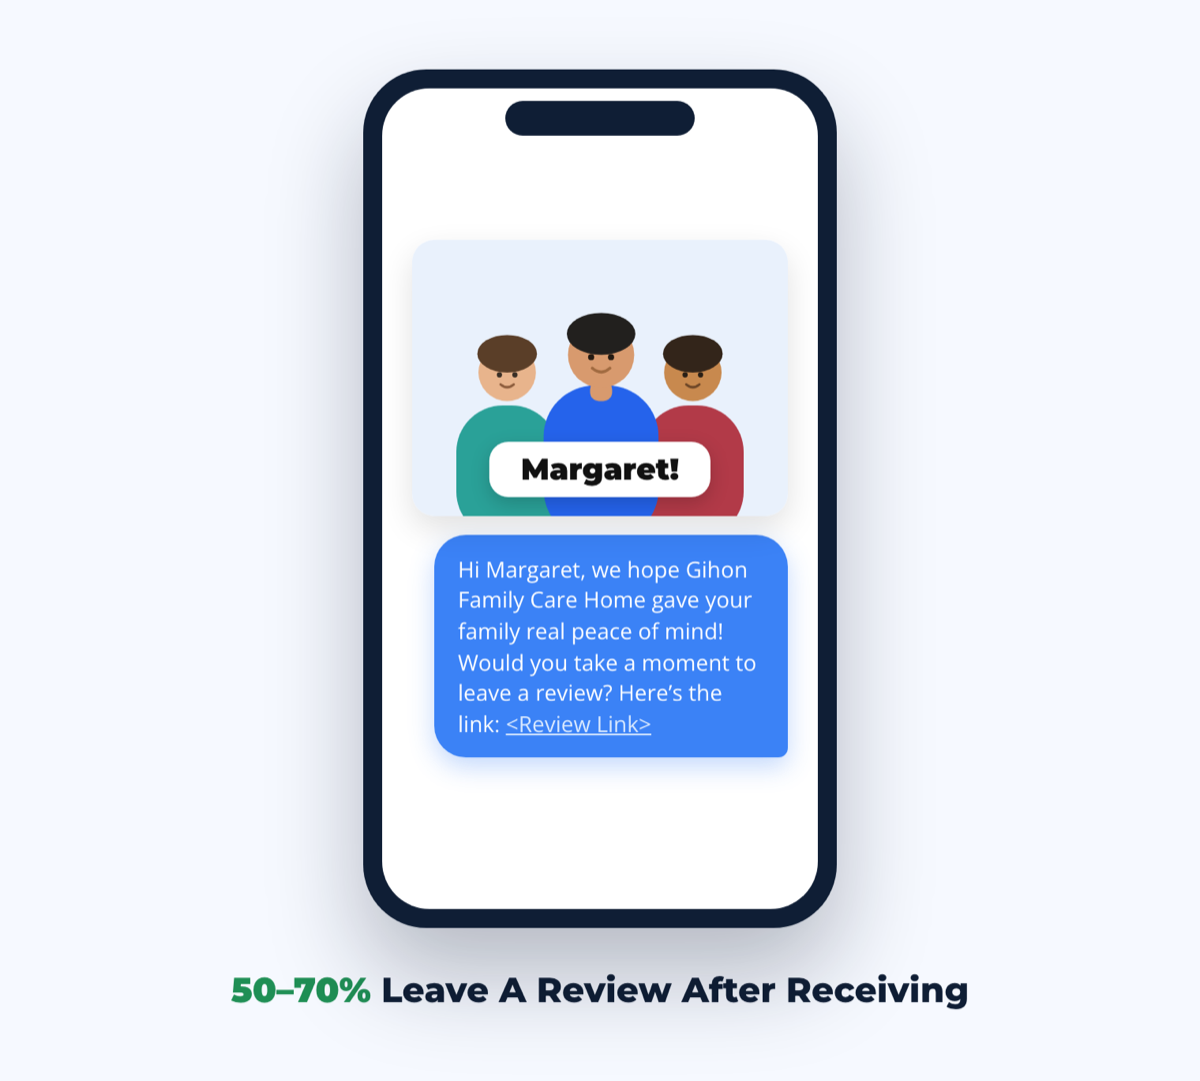
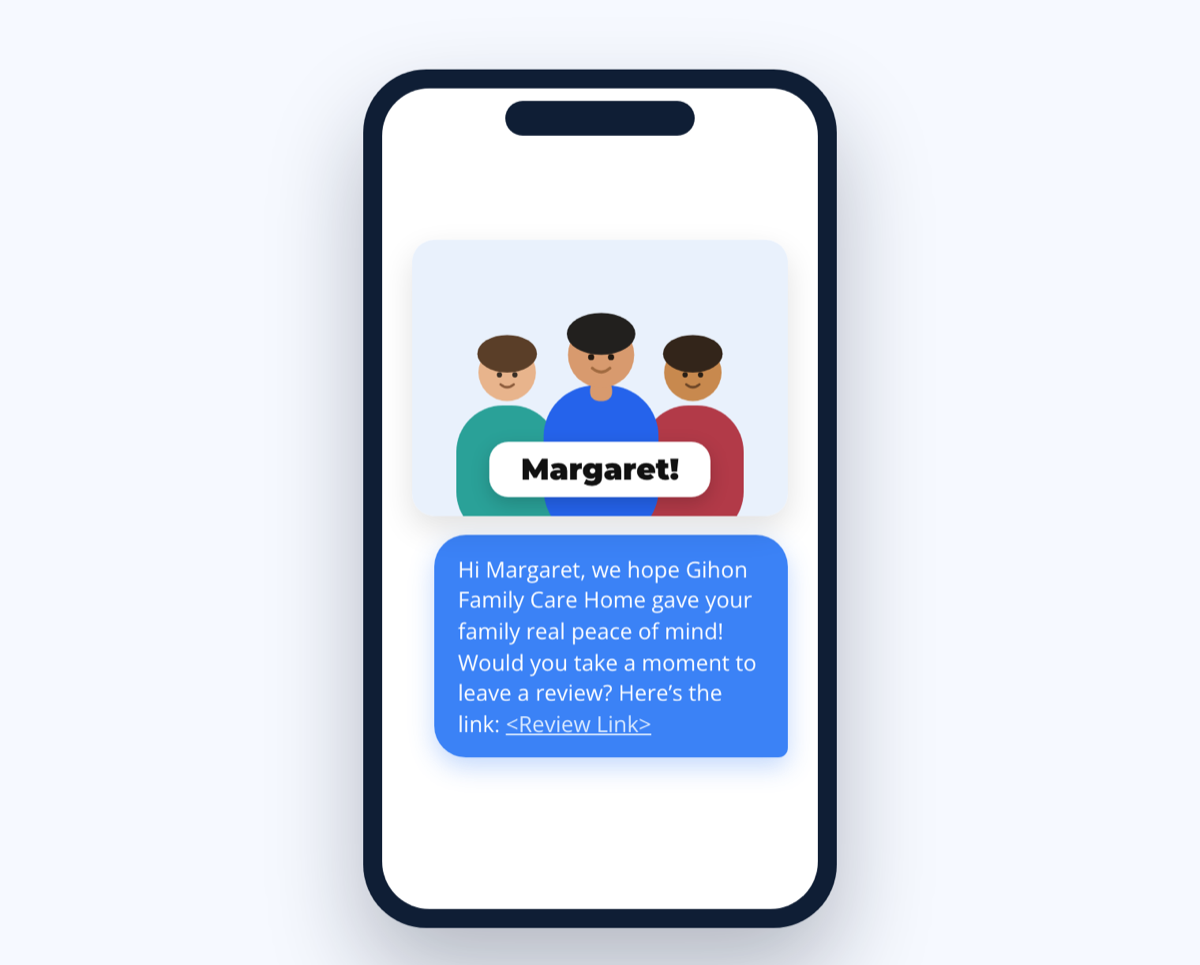
proposal: mobile/resize fixes across 9 review points
- Sticky nav restored on mobile: body/html overflow-x hidden -> clip (was
  breaking position:sticky), hamburger now always visible on phones.
- Hero + receptionist + offer laptop iframes: JS scaler fits the full
  desktop site to the frame at any width (no more right-half clipping).
- "The Research": split the Reddit + Facebook proof into two readable
  images (stack on phones); removed the blue card box.
- "The Results": replaced the baked-in comparison PNG with live
  side-by-side cards (labels + search volumes only); removed the box.
- Personalized-reviews image cropped to drop the redundant "50-70% leave a
  review" caption; blue box removed. More-reviews video: force play via
  IntersectionObserver + preload=auto; blue box removed.
- Receptionist chat journey: stop the zoom-to-30% squish, stack the three
  beats full-size on mobile with down-arrows.
- Investment badges (One Payment / You Own It / Money-Back) now one
  horizontal row on mobile. Offer diagram fits and no longer clips.

Changed region(s): [[0.185, 0.2798, 0.8017, 1.0], [0.3083, 0.0622, 0.7092, 0.1554]]

diff --git a/index.html b/index.html
@@ -1616,7 +1616,7 @@ details.proposal-collapsible[open] > .ps-summary{
 </style>
 
 <style id="sbp-mobile">
-html,body{max-width:100%;overflow-x:hidden}
+html,body{max-width:100%;overflow-x:clip}
 img,video,iframe,svg{max-width:100%}
 @media(max-width:768px){
   .topbar-inner{padding:0 16px;gap:10px}
@@ -1699,7 +1699,7 @@ img,video,iframe,svg{max-width:100%}
 *{box-sizing:border-box;margin:0;padding:0}
 html{-webkit-text-size-adjust:100%;scroll-behavior:smooth}
 body{background:var(--white);color:var(--ink);font-family:var(--sans);font-size:1.0625rem;
-  line-height:1.6;-webkit-font-smoothing:antialiased;overflow-x:hidden}
+  line-height:1.6;-webkit-font-smoothing:antialiased;overflow-x:clip}
 img,video{max-width:100%;display:block}
 h1,h2,h3{font-family:var(--serif);font-weight:800;letter-spacing:-.02em;line-height:1.1;text-wrap:balance}
 h1{font-size:clamp(1.95rem,6vw,3.3rem)}
@@ -2653,7 +2653,7 @@ html{scroll-behavior:smooth}
     <h2 class="pgrid-head">The Goldmine of Qualified Prospects</h2>
     <p class="pgrid-sub">Where your next clients are actually looking &mdash; and why most home care sites never show up there.</p>
     <div class="pgrid pgrid-3">
-        <figure class="pcell"><h3 class="pcell-title">For the last 2 years Google has been transitioning out the ability to scroll beyond the first page</h3><div class="pcell-media"><video class="pcell-vid" autoplay muted loop playsinline preload="metadata" poster="traffic-google-scroll-poster.jpg" aria-label="Google removing the ability to scroll past page one"><source src="traffic-google-scroll.mp4" type="video/mp4"></video></div></figure>
+        <figure class="pcell"><h3 class="pcell-title">For the last 2 years Google has been transitioning out the ability to scroll beyond the first page</h3><div class="pcell-media"><video class="pcell-vid" autoplay muted loop playsinline preload="auto" poster="traffic-google-scroll-poster.jpg" aria-label="Google removing the ability to scroll past page one"><source src="traffic-google-scroll.mp4" type="video/mp4"></video></div></figure>
         <figure class="pcell"><h3 class="pcell-title">Their new &ldquo;Have AI get prices&rdquo; button rewards websites that were built for it</h3><div class="pcell-media"><img src="getprices.webp" alt="Google&rsquo;s Have AI get prices button" loading="lazy" decoding="async"></div></figure>
         <figure class="pcell"><h3 class="pcell-title">Tools like ChatGPT are recommending local businesses, but only 1.2% of sites are set up to show up</h3><div class="pcell-media"><img src="article-highlighted.png" alt="Only 1.2% of local businesses are recommended by AI search" loading="lazy" decoding="async"></div></figure>
     </div>
@@ -2665,8 +2665,8 @@ html{scroll-behavior:smooth}
     <h2 class="pgrid-head">Your Customers Don&rsquo;t Search Like Care Providers</h2>
     <p class="pgrid-sub">We read what families actually type before we write a word &mdash; then build your site in their words, not the trade&rsquo;s.</p>
     <div class="pgrid pgrid-2">
-        <figure class="pcell"><h3 class="pcell-title">The Research</h3><div class="pcell-media"><img src="home-care-proof-layered.png" alt="Real customer language pulled from Google, Reddit and Facebook" loading="lazy" decoding="async"></div></figure>
-        <figure class="pcell"><h3 class="pcell-title">The Results</h3><div class="pcell-media"><img src="trust-results.png" alt="The results of writing the site in customer language" loading="lazy" decoding="async"></div></figure>
+        <figure class="pcell pcell-research"><h3 class="pcell-title">The Research</h3><div class="pcell-media"><div class="proof-split"><img src="proof-reddit.png" alt="A daughter on Reddit asking how to find in-home care for her mom without a fight" loading="lazy" decoding="async"><img src="proof-facebook.png" alt="A son on Facebook asking for a reliable in-home caregiver for his dad" loading="lazy" decoding="async"></div></div></figure>
+        <figure class="pcell pcell-results"><h3 class="pcell-title">The Results</h3><div class="pcell-media"><div class="cmp-cols"><div class="cmp-col bad"><div class="cmp-lab"><span class="b">&times;</span> Written like a care provider</div><div class="cmp-brow"><div class="cmp-bar"><i></i><i></i><i></i><span class="u">gihonfamilycare.com</span></div><div class="cmp-hero"><div class="cmp-h">In-Home Non-Medical ADL Assistance &amp; Care Coordination</div><ul class="cmp-bl"><li>Activities of daily living (ADL) support</li><li>Care-plan management &amp; coordination</li><li>HIPAA-compliant caregiver matching</li></ul><span class="cmp-cta">Request Consultation</span></div></div><div class="cmp-dem"><span class="ic">&times;</span><div><div class="n">~40</div><div class="l">searches/mo for &ldquo;non-medical ADL assistance&rdquo;</div></div></div></div><div class="cmp-col mid"><div class="cmp-vs">VS</div></div><div class="cmp-col good"><div class="cmp-lab"><span class="b">&#10003;</span> Written for your customers</div><div class="cmp-brow"><div class="cmp-bar"><i></i><i></i><i></i><span class="u">gihonfamilycare.com</span></div><div class="cmp-hero"><div class="cmp-h">Worried About Mom Living Alone? Trusted Caregivers, a Few Hours a Day.</div><ul class="cmp-bl"><li>Help with bathing, meals &amp; medication reminders</li><li>Background-checked caregivers you can trust</li><li>Start with a free in-home visit</li></ul><span class="cmp-cta">Get a Free Consultation</span></div></div><div class="cmp-dem"><span class="ic">&#10003;</span><div><div class="n">~2,900</div><div class="l">searches/mo for &ldquo;home care for elderly parent&rdquo;</div></div></div></div></div></div></figure>
     </div>
   </div>
 </section>
@@ -2690,7 +2690,7 @@ html{scroll-behavior:smooth}
     <div class="pgrid pgrid-3">
         <figure class="pcell"><h3 class="pcell-title">11 out of 100 businesses consistently get reviews</h3><div class="pcell-media"><img src="repeat-11of100.png" alt="11 out of 100 businesses consistently get reviews" loading="lazy" decoding="async"></div></figure>
         <figure class="pcell"><h3 class="pcell-title">Personalized Reviews: 50&ndash;70% respond</h3><div class="pcell-media"><img src="repeat-personalized.png" alt="Personalized review requests get a 50 to 70 percent response rate" loading="lazy" decoding="async"></div></figure>
-        <figure class="pcell"><h3 class="pcell-title">More Reviews Means More Seniors</h3><div class="pcell-media"><video class="pcell-vid" autoplay muted loop playsinline preload="metadata" poster="repeat-more-reviews-poster.jpg" aria-label="More reviews means more seniors served"><source src="repeat-more-reviews.mp4" type="video/mp4"></video></div></figure>
+        <figure class="pcell"><h3 class="pcell-title">More Reviews Means More Seniors</h3><div class="pcell-media"><video class="pcell-vid" autoplay muted loop playsinline preload="auto" poster="repeat-more-reviews-poster.jpg" aria-label="More reviews means more seniors served"><source src="repeat-more-reviews.mp4" type="video/mp4"></video></div></figure>
     </div>
   </div>
 </section>
@@ -5027,6 +5027,106 @@ document.addEventListener("keydown",function(e){if(e.key==="Escape")close();});
 function ready(on){bar.classList.toggle("nav-ready",on);if(!on)close();}
 if(window.IntersectionObserver&&hero){new IntersectionObserver(function(en){ready(!en[0].isIntersecting);},{threshold:0}).observe(hero);}
 else{window.addEventListener("scroll",function(){ready(window.scrollY>(hero?hero.offsetHeight:600)-80);},{passive:true});}
+})();</script>
+<style id="sbp-resp-2026-07-24">
+/* =============================================================
+   Mobile / resize fixes — 2026-07-24 (Vince review)
+   ============================================================= */
+
+/* #4 — sticky nav + always-available hamburger on mobile
+   (overflow-x:clip on html,body — set in #sbp-mobile — restores position:sticky) */
+@media(max-width:768px){
+  .nav-burger{opacity:1!important;visibility:visible!important;transform:none!important;margin-left:auto;}
+}
+
+/* #2 / #3 / #5 / #6 — strip the light-blue card box off the proof cells */
+#search-language .pcell-media,
+#outreach-system .pcell-media{
+  background:none!important;border:0!important;box-shadow:none!important;
+  border-radius:0!important;overflow:visible!important;
+}
+
+/* #2 — Trust section: single column so the proof reads big; split reddit/fb */
+#search-language .pgrid-2{grid-template-columns:1fr;max-width:820px;margin-inline:auto;gap:34px;}
+.proof-split{display:flex;gap:16px;align-items:flex-start;}
+.proof-split img{flex:1 1 0;min-width:0;width:100%;height:auto;border-radius:12px;
+  box-shadow:0 14px 30px rgba(15,23,42,.14);border:1px solid rgba(15,23,42,.08);}
+@media(max-width:640px){.proof-split{flex-direction:column;gap:18px;}}
+
+/* #3 — live "Results" comparison sits flush in the bare cell */
+.pcell-results .cmp-cols{margin-top:2px;}
+.pcell-results .cmp-col{max-width:none;}
+
+/* #5 — personalized-review phone: keep it centered, sensible size */
+#outreach-system .pcell figure,#outreach-system .pcell img{margin-inline:auto;}
+#outreach-system .pcell img[src*="repeat-personalized"]{max-width:320px;display:block;margin:0 auto;}
+
+/* #6 — more-reviews video: bare, centered, capped */
+#outreach-system .pcell-vid{max-width:340px;display:block;margin:0 auto;border-radius:14px;}
+
+/* #7 — receptionist chat journey: stop the zoom-squish, stack full size on mobile */
+@media(max-width:900px){
+  #receptionist .ai-journey{zoom:1!important;flex-direction:column!important;flex-wrap:nowrap!important;
+    gap:6px!important;align-items:center!important;}
+  #receptionist .ai-journey-arrow{transform:rotate(90deg)!important;font-size:26px!important;margin:2px 0!important;}
+  #receptionist .ai-journey .ai-laptop{width:100%!important;max-width:min(420px,92vw)!important;}
+  #receptionist .ai-journey .ai-chatwin{width:100%!important;max-width:min(360px,92vw)!important;}
+  #receptionist .ai-journey .ai-phone{width:100%!important;max-width:min(300px,80vw)!important;}
+  #receptionist .ai-journey-beat{width:100%;align-items:center;}
+}
+
+/* #8 — investment badges: one horizontal row on mobile */
+@media(max-width:560px){
+  #offer .so-invest .so-trust{flex-wrap:nowrap!important;gap:7px;}
+  #offer .so-invest .so-chip{flex:1 1 0;min-width:0;flex-direction:column;text-align:center;
+    gap:6px;padding:11px 6px;font-size:11.5px;line-height:1.2;border-radius:12px;}
+  #offer .so-invest .so-chip .so-c{width:17px;height:17px;}
+  #offer .so-invest .so-chip .so-c svg{width:10px;height:10px;}
+}
+
+/* #9 — offer diagram: fit + center, no clipping on phones */
+@media(max-width:820px){
+  #offer .so-diagram{margin-top:30px;}
+  #offer .so-hub{gap:16px;width:100%;}
+  #offer .so-sys,#offer .so-site,#offer .so-sys.so-bottom,#offer .so-downcol{width:100%;max-width:420px;margin-inline:auto;}
+  #offer .so-downcol{align-items:center;}
+  #offer .so-conn.so-down{margin:14px 0;}
+  #offer .so-sys .so-t{padding-right:40px;}
+}
+</style>
+<script id="sbp-resp-js-2026-07-24">(function(){
+  /* #1 / #9 — scale each laptop iframe so the full desktop site fits its frame (no horizontal clipping) */
+  var LAPS=[
+    {sel:'.cover-laptop .laptop-viewport',slice:905},
+    {sel:'#receptionist .ai-laptop .laptop-viewport',slice:890},
+    {sel:'#offer .so-vp',slice:760}
+  ];
+  function scaleLaptops(){
+    LAPS.forEach(function(L){
+      document.querySelectorAll(L.sel).forEach(function(vp){
+        var f=vp.querySelector('.laptop-iframe'); if(!f) return;
+        var w=vp.clientWidth; if(!w) return;
+        var s=w/1440;
+        f.style.width='1440px'; f.style.transformOrigin='top left';
+        f.style.transform='scale('+s+')';
+        vp.style.height=Math.round(s*L.slice)+'px';
+      });
+    });
+  }
+  if(document.readyState!=='loading')scaleLaptops();
+  else document.addEventListener('DOMContentLoaded',scaleLaptops);
+  window.addEventListener('load',scaleLaptops);
+  var rt; window.addEventListener('resize',function(){clearTimeout(rt);rt=setTimeout(scaleLaptops,120);},{passive:true});
+
+  /* #6 — force muted looping proof videos to actually play once on screen (mobile autoplay guard) */
+  var vids=document.querySelectorAll('.pcell-vid');
+  function play(v){try{v.muted=true;var p=v.play();if(p&&p.catch)p.catch(function(){});}catch(e){}}
+  if(vids.length){
+    if(window.IntersectionObserver){
+      var io=new IntersectionObserver(function(es){es.forEach(function(e){if(e.isIntersecting){play(e.target);}});},{threshold:.2});
+      vids.forEach(function(v){io.observe(v);});
+    } else {vids.forEach(play);}
+  }
 })();</script>
 </body>
 </html>
